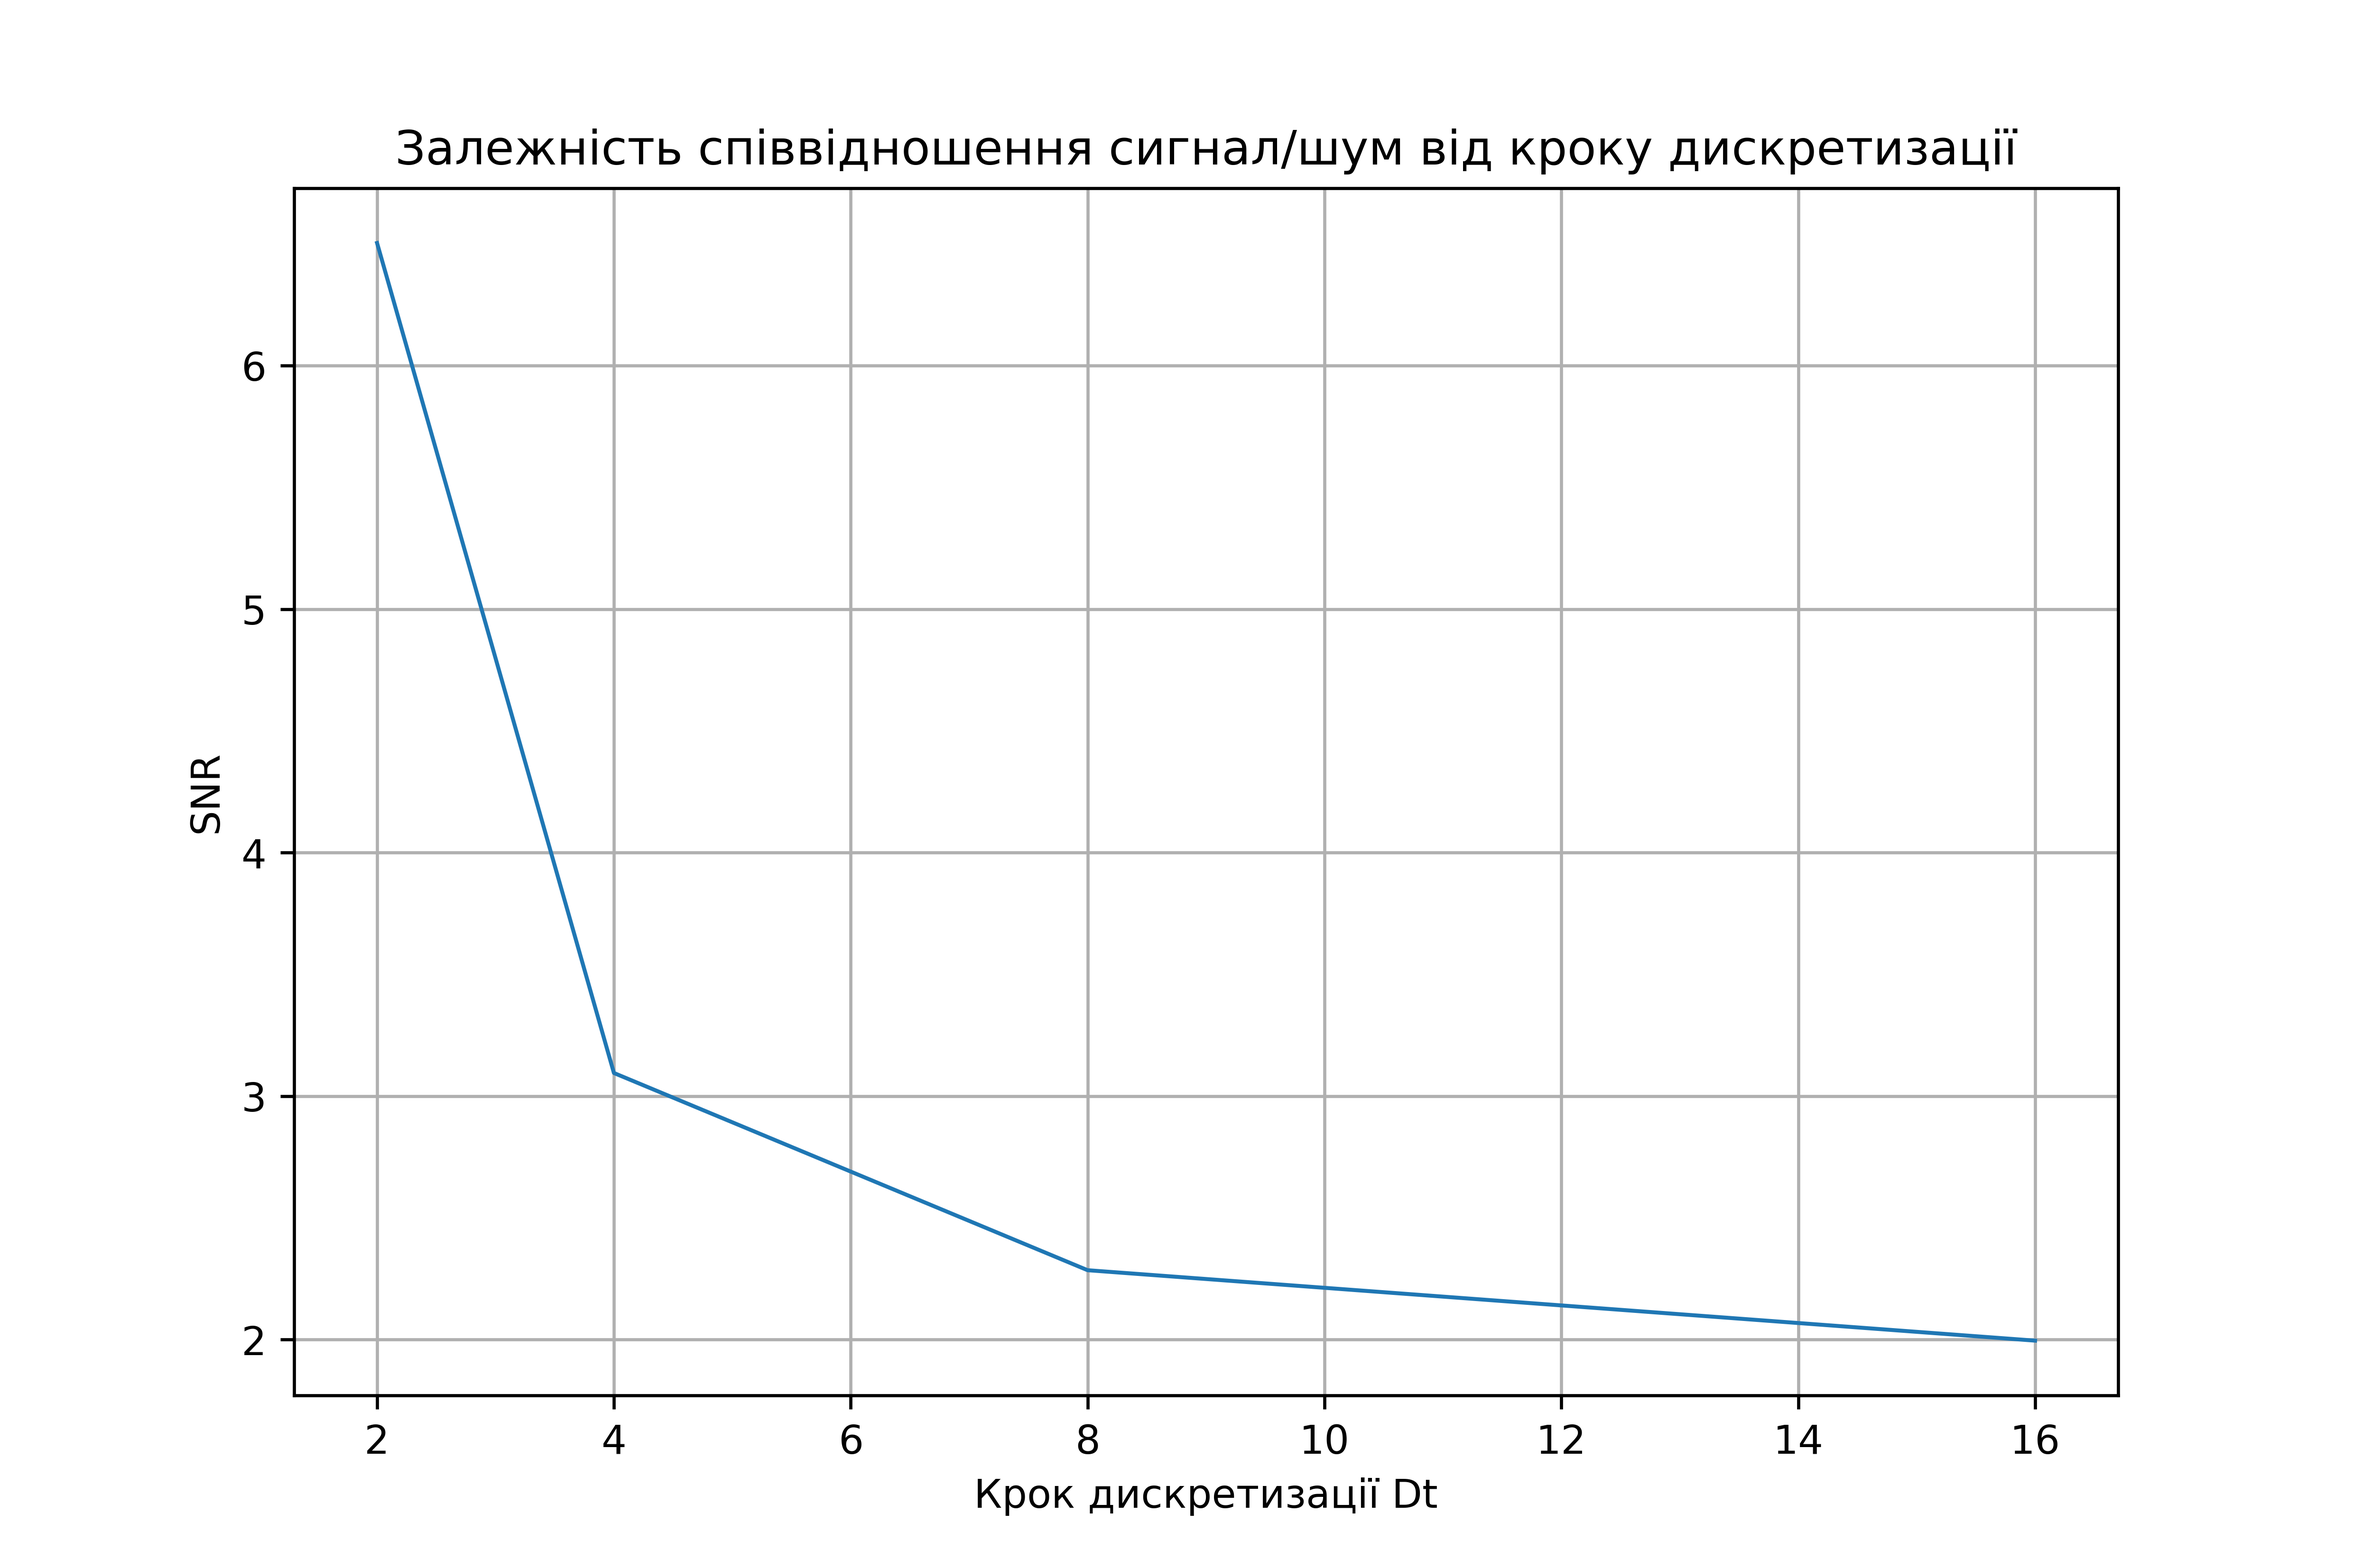
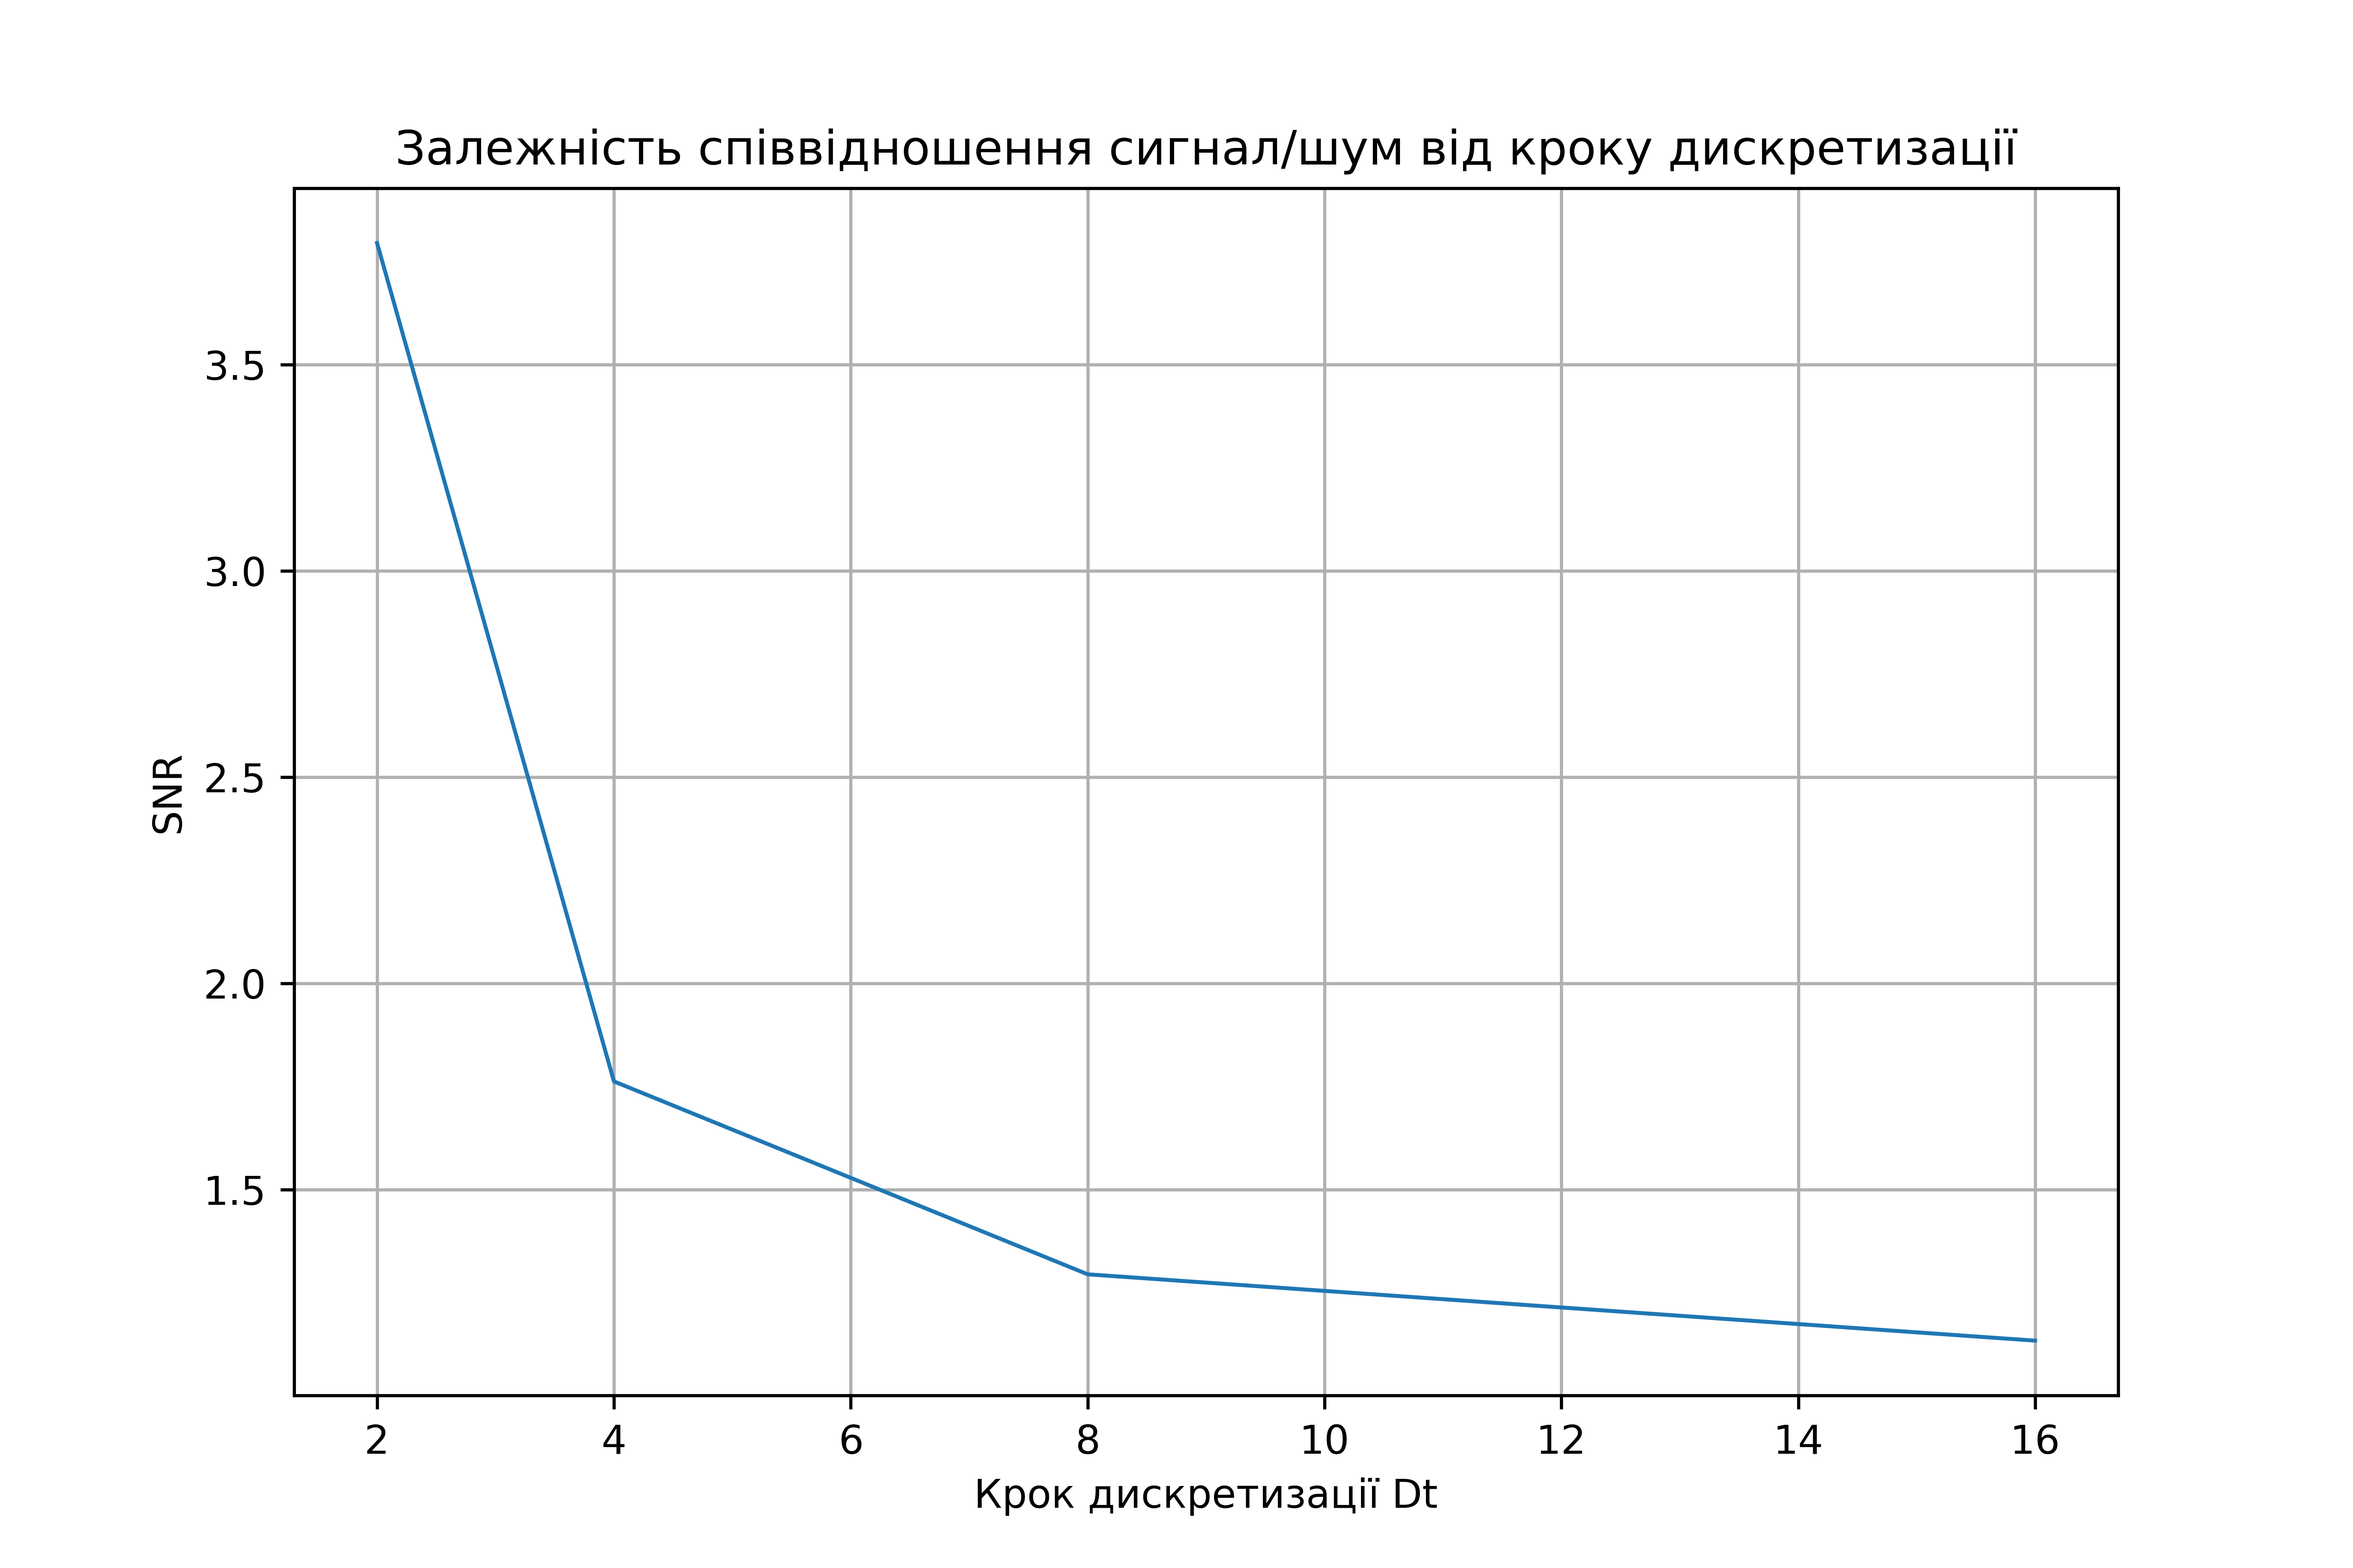
Signal processing, 3

diff --git a/Signal Processing/Signal_processing.py b/Signal Processing/Signal_processing.py
@@ -1,6 +1,6 @@
 import numpy as np
 import matplotlib.pyplot as plt
-from scipy import signal
+from scipy import signal, fft
 from scipy.fft import fft, fftshift, fftfreq
 
 # =========================
@@ -9,100 +9,109 @@ from scipy.fft import fft, fftshift, fftfreq
 n = 500
 Fs = 1000
 F_max = 17
-F_filter = 24
 
 random_signal = np.random.normal(0, 10, n)
 t = np.arange(n) / Fs
 
 w = F_max / (Fs / 2)
 sos = signal.butter(3, w, 'low', output='sos')
-
 filtered_signal = signal.sosfiltfilt(sos, random_signal)
 
-spectrum = np.abs(fftshift(fft(filtered_signal)))
-freqs = fftshift(fftfreq(n, 1/Fs))
 
-discrete_signals = []
-discrete_spectrums = []
-restored_signals = []
-variances = []
-snr_values = []
-
-for Dt in [2, 4, 8, 16]:
-
-    discrete_signal = np.zeros(n)
-
-    for i in range(0, round(n / Dt)):
-        discrete_signal[i * Dt] = filtered_signal[i * Dt]
-
-    discrete_signals.append(discrete_signal)
-
-    discrete_spectrums.append(np.abs(fftshift(fft(discrete_signal))))
-
-    sos2 = signal.butter(3, F_filter / (Fs / 2), 'low', output='sos')
-    restored = signal.sosfiltfilt(sos2, discrete_signal)
-
-    restored_signals.append(restored)
-
-    E1 = restored - filtered_signal
-
-    variances.append(np.var(E1))
-    snr_values.append(np.var(filtered_signal) / np.var(E1))
-
-
-def plot_2x2(x, y, title, xlabel, ylabel):
-
-    fig, ax = plt.subplots(2, 2, figsize=(21/2.54, 14/2.54))
-
-    k = 0
-    for i in range(2):
-        for j in range(2):
-            ax[i][j].plot(x, y[k], linewidth=1)
-            ax[i][j].set_title(f"Крок Dt = {[2,4,8,16][k]}")
-            ax[i][j].grid()
-            k += 1
-
-    fig.supxlabel(xlabel, fontsize=14)
-    fig.supylabel(ylabel, fontsize=14)
-    fig.suptitle(title, fontsize=14)
-
+def plot_graph(x, y, title, xlabel, ylabel):
+    fig, ax = plt.subplots(figsize=(21 / 2.54, 14 / 2.54))
+    ax.plot(x, y, linewidth=1)
+    ax.set_xlabel(xlabel, fontsize=14)
+    ax.set_ylabel(ylabel, fontsize=14)
+    plt.title(title, fontsize=14)
+    plt.grid()
     fig.savefig('./figures/' + title + '.png', dpi=600)
     plt.show()
 
 
-# =========================
-# ГРАФІКИ
-# =========================
+def plot_2x2(x, y, title, xlabel, ylabel):
+    fig, ax = plt.subplots(2, 2, figsize=(21 / 2.54, 14 / 2.54))
+    k = 0
+    for i in range(2):
+        for j in range(2):
+            ax[i][j].plot(x, y[k], linewidth=1)
+            ax[i][j].set_title(f"Рівні M = {[4, 16, 64, 256][k]}")
+            ax[i][j].grid()
+            k += 1
+    fig.supxlabel(xlabel, fontsize=14)
+    fig.supylabel(ylabel, fontsize=14)
+    fig.suptitle(title, fontsize=14)
+    fig.savefig('./figures/' + title + '.png', dpi=600)
+    plt.show()
 
-plot_2x2(t, discrete_signals,
-         "Дискретизовані сигнали",
+
+quantized_signals = []
+variances = []
+snr_values = []
+
+for M in [4, 16, 64, 256]:
+    bits = []
+
+    delta = (np.max(filtered_signal) - np.min(filtered_signal)) / (M - 1)
+
+    quantize_signal = delta * np.round(filtered_signal / delta)
+    quantized_signals.append(quantize_signal)
+
+    quantize_levels = np.arange(np.min(quantize_signal), np.max(quantize_signal) + 1, delta)
+
+    quantize_bit = np.arange(0, M)
+    quantize_bit = [format(b, '0' + str(int(np.log(M) / np.log(2))) + 'b') for b in quantize_bit]
+
+    quantize_table = np.c_[quantize_levels[:M], quantize_bit[:M]]
+
+    fig, ax = plt.subplots(figsize=(14 / 2.54, M / 2.54))
+    table = ax.table(cellText=quantize_table, colLabels=['Значення сигналу', 'Кодова послідовність'], loc='center')
+    table.set_fontsize(14)
+    table.scale(1, 2)
+    ax.axis('off')
+    fig.savefig('./figures/Таблиця квантування для М ' + str(M) + ' рівнів.png', dpi=600)
+    plt.show()
+
+    for signal_value in quantize_signal:
+        for index, value in enumerate(quantize_levels[:M]):
+            if np.round(np.abs(signal_value - value), 0) == 0:
+                bits.append(quantize_bit[index])
+                break
+
+    bits = [int(item) for item in list(''.join(bits))]
+
+    fig, ax = plt.subplots(figsize=(21 / 2.54, 14 / 2.54))
+    x = np.arange(0, len(bits))
+    ax.step(x, bits, linewidth=0.1)
+    ax.set_xlabel('Відліки', fontsize=14)
+    ax.set_ylabel('Біти', fontsize=14)
+    plt.title('Кодова послідовність М=' + str(M), fontsize=14)
+    fig.savefig('./figures/Кодова послідовність М ' + str(M) + '.png', dpi=600)
+    plt.show()
+
+    E1 = filtered_signal - quantize_signal
+    variances.append(np.var(E1))
+    snr_values.append(np.var(filtered_signal) / np.var(E1))
+
+plot_2x2(t, quantized_signals,
+         "Цифрові сигнали з різними рівнями квантування",
          "Час (с)",
          "Амплітуда")
 
-plot_2x2(freqs, discrete_spectrums,
-         "Спектри дискретизованих сигналів",
-         "Частота (Гц)",
-         "Амплітуда")
-
-plot_2x2(t, restored_signals,
-         "Відновлені сигнали",
-         "Час (с)",
-         "Амплітуда")
-
-plt.figure(figsize=(21/2.54, 14/2.54))
-plt.plot([2,4,8,16], variances, linewidth=1)
-plt.title("Залежність дисперсії від кроку дискретизації")
-plt.xlabel("Крок дискретизації Dt")
-plt.ylabel("Дисперсія похибки")
+plt.figure(figsize=(21 / 2.54, 14 / 2.54))
+plt.plot([4, 16, 64, 256], variances, linewidth=1)
+plt.title("Залежність дисперсії від кількості рівнів квантування")
+plt.xlabel("Кількість рівнів квантування M")
+plt.ylabel("Дисперсія")
 plt.grid()
-plt.savefig('./figures/variance.png', dpi=600)
+plt.savefig('./figures/Залежність дисперсії.png', dpi=600)
 plt.show()
 
-plt.figure(figsize=(21/2.54, 14/2.54))
-plt.plot([2,4,8,16], snr_values, linewidth=1)
-plt.title("Залежність співвідношення сигнал/шум від кроку дискретизації")
-plt.xlabel("Крок дискретизації Dt")
+plt.figure(figsize=(21 / 2.54, 14 / 2.54))
+plt.plot([4, 16, 64, 256], snr_values, linewidth=1)
+plt.title("Залежність співвідношення сигнал-шум")
+plt.xlabel("Кількість рівнів квантування M")
 plt.ylabel("SNR")
 plt.grid()
-plt.savefig('./figures/snr.png', dpi=600)
+plt.savefig('./figures/Залежність SNR.png', dpi=600)
 plt.show()
